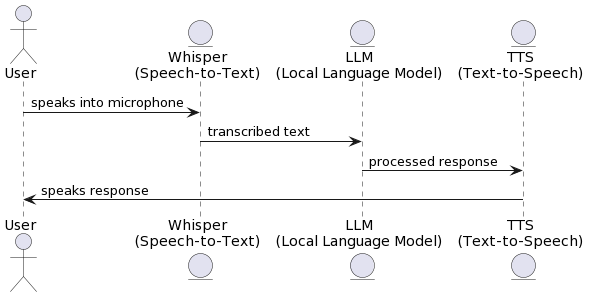
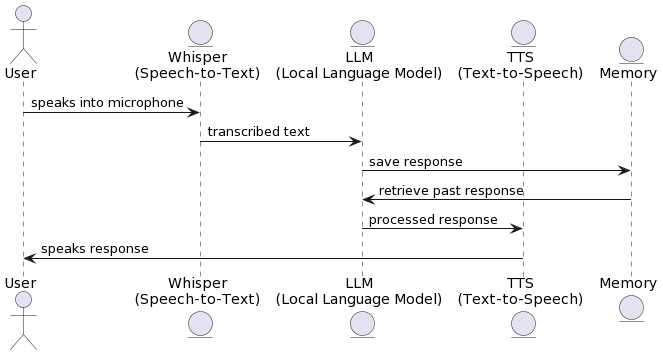
correcting bugs streamlit

Changed region(s): [[0.0, 0.6061, 1.0, 0.9697], [0.0, 0.0, 1.0, 0.4848], [0.5501, 0.5152, 0.9474, 0.6061]]

diff --git a/streamlit_app/app.py b/streamlit_app/app.py
@@ -94,7 +94,15 @@ def main():
             start_time = time.time()
             st.header("Transcription")
             with st.spinner('Transcribing...'):
-                transcribed_text = transcribe_audio(audio_file_path)
+                response = requests.post(
+                    "http://localhost:8000/transcribe_audio",  # Replace with your actual endpoint URL
+                    json={"file_path": audio_file_path}  # Send data as JSON
+                )
+
+                if response.status_code == 200:
+                    transcribed_text = response.json()
+                else:
+                    transcribed_text = f"Error: {response.text}"
             elapsed_time = time.time() - start_time
             st.write(f"Transcribed in {elapsed_time:.2f} seconds: ")
             st.write("Transcription :",transcribed_text)
@@ -112,6 +120,7 @@ def main():
 
             # Text to Speech
             start_time = time.time()
+            st.header("Text to speech")
             convert_text_to_speech(llm_response, language="en")
             elapsed_time = time.time() - start_time
             st.write(f"Text to speech generated in {elapsed_time:.2f} seconds.")
@@ -133,7 +142,15 @@ def main():
             start_time = time.time()
             st.header("Transcription")
             with st.spinner('Transcribing...'):
-                transcribed_text = transcribe_audio(audio_file_path)
+                response = requests.post(
+                    "http://localhost:8000/transcribe_audio",  # Replace with your actual endpoint URL
+                    json={"file_path": audio_file_path}  # Send data as JSON
+                )
+
+                if response.status_code == 200:
+                    transcribed_text = response.json()
+                else:
+                    transcribed_text = f"Error: {response.text}"
             elapsed_time = time.time() - start_time
             st.write(f"Transcribed in {elapsed_time:.2f} seconds: ")
             st.write("Transcription :",transcribed_text)

diff --git a/fastapi/api_server.py b/fastapi/api_server.py
@@ -134,9 +134,9 @@ async def convert_text_to_speech(request: dict, language: str = LANGUAGE):
     text = request["text"]
     if LANGUAGE=="fr":
         tld="fr"
-    else:
+    if LANGUAGE=="en":
         tld="us"
-    tts = gTTS(text, lang=language, tld=tld)
+    tts = gTTS(text, lang=LANGUAGE, tld=tld)
     file_path = os.path.join(OUTPUT_PATH, "speech.mp3")
     tts.save(file_path)
     command = f'mpg321 "{file_path}"'

diff --git a/readme.md b/readme.md
@@ -6,10 +6,9 @@
 VoiceAI integrates the power of Text-to-Speech (TTS), Speech-to-Text (STT), and Local Language Model (LLM) technologies. This advanced AI application enables seamless conversion of text to speech, transcription of audio to text, and interaction with a local language model through an intuitive interface.
 
 ## Screenshots
-
-![Screenshot 1 Description](ressources/ask_with_text.png)
-![Screenshot 2 Description](ressources/tab_record_audio.png)
-![Screenshot 3 Description](ressources/tab_upload_file.png)
+![Screenshot 1 Description](ressources/tab_record_audio.png)
+![Screenshot 2 Description](ressources/tab_upload_file.png)
+![Screenshot 3 Description](ressources/ask_with_text.png)
 
 ## System Flowchart
 
@@ -18,9 +17,12 @@ actor User
 entity "Whisper\n(Speech-to-Text)" as Whisper
 entity "LLM\n(Local Language Model)" as LLM
 entity "TTS\n(Text-to-Speech)" as TTS
+entity "Memory" as Memory
 
 User -> Whisper : speaks into microphone
 Whisper -> LLM : transcribed text
+LLM -> Memory : save response
+Memory -> LLM : retrieve past response
 LLM -> TTS : processed response
 TTS -> User : speaks response
 @enduml
@@ -69,6 +71,12 @@ For a conventional setup using `conda`, launch `install.sh` located at the root 
 ```bash
 ./install.sh
 ```
+
+If conda is not installed in your device, this script will set everything up :
+```bash
+./install_conda.sh
+```
+
 ### Model Setup
 - Create a folder called models in root
 - Download a model 
@@ -99,6 +107,17 @@ To use whisper-llm-gtts, you need to open two terminals:
   cd streamlit_app
   streamlit run streamlit_app/run app.py
   ```
+
+### Run in terminal
+
+  ```bash
+  bash run_continious.sh
+  ```
+  or
+  ```bash
+  ./run_continious.sh
+  ```
+
 
 ## Dockerization
 
